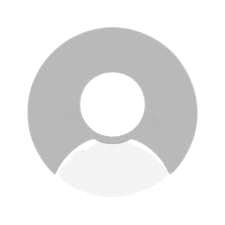
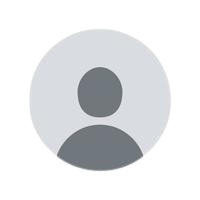
Replace image membenarkan sidebar,profil admin dan ganti sedikit tampilan jabatan

diff --git a/resources/views/admin/jabatan.blade.php b/resources/views/admin/jabatan.blade.php
@@ -4,7 +4,7 @@
     </x-slot:title>
 
     <div class="container mx-auto px-4 sm:px-6 lg:px-8 py-8">
-        <h1 class="text-2xl sm:text-3xl font-bold text-gray-800 mb-6 text-center sm:text-left">
+        <h1 class="text-2xl sm:text-3xl font-bold text-white mb-6 text-center sm:text-left">
             {{ $title }}
         </h1>
 
@@ -27,7 +27,7 @@
         <div class="overflow-x-auto">
             <table class="min-w-full bg-white border-gray-400 rounded-lg shadow-md">
                 <thead>
-                    <tr class="bg-gray-500">
+                    <tr class="bg-gray-400">
                         <th class="text-left px-4 sm:px-6 py-3 text-sm font-medium text-gray-600 border-b">
                             Nama
                         </th>

diff --git a/resources/views/components/sidebar.blade.php b/resources/views/components/sidebar.blade.php
@@ -2,7 +2,7 @@
 {{-- jangan DIHAPUS yang ini!!! --}}
 <div class="sidebar hidden">
     <ul
-        class="flex flex-col gap-2 absolute left-0 z-10 top-12 bottom-0 w-8/12 bg-gray-300 md:w-4/12 lg:w-3/12 xl:w-2/12">
+        class="flex flex-col gap-2 absolute left-0 z-10 top-14 bottom-0 w-8/12 bg-gray-300 md:w-4/12 lg:w-3/12 xl:w-2/12">
         @if (Auth::check() && auth()->user()->role === 'Admin')
             <x-navlink href="/dashboard_admin" :active="request()->is('dashboard_admin')"><i class="fas fa-th-large px-2"></i>Dashboard
                 Admin</x-navlink>

diff --git a/resources/views/admin/profile_admin.blade.php b/resources/views/admin/profile_admin.blade.php
@@ -32,7 +32,7 @@
                 </div>
                 <div class="flex justify-between">
                     <span class="font-semibold text-gray-700">Gender:</span>
-                    <span class="text-gray-900">{{ auth()->user()->gender == 'L' ? 'Laki-laki' : 'Perempuan' }}</span>
+                    <span class="text-gray-900">{{ auth()->user()->gender }}</span>
                 </div>
                 <div class="flex justify-between">
                     <span class="font-semibold text-gray-700">Agama:</span>

diff --git a/resources/views/components/layout.blade.php b/resources/views/components/layout.blade.php
@@ -11,6 +11,7 @@
     <link href="https://cdnjs.cloudflare.com/ajax/libs/font-awesome/6.0.0-beta3/css/all.min.css" rel="stylesheet">
     <title>{{ $title }}</title>
     <link href="https://cdnjs.cloudflare.com/ajax/libs/font-awesome/6.0.0-beta3/css/all.min.css" rel="stylesheet">
+    <link rel="icon" href="{{ Vite::asset('public/images/logo.jpg') }}" type="image/x-icon">
 </head>
 
 <body class="min-h-screen bg-gradient-to-r from-blue-900 to-gray-500 text-gray-800">
